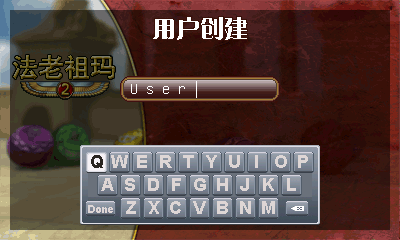
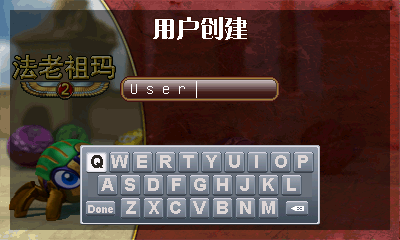
docs: record Scarab 2 playability after the screen-entry fix (#185)

Changed region(s): [[0.0, 0.5833, 0.24, 0.9333]]

diff --git a/docs/Game-Compatibility.md b/docs/Game-Compatibility.md
@@ -57,6 +57,13 @@ because `get_tick` advanced the guest clock faster than the 100 ms frame, which
 corrupted the countdown shared by the AI ready timers; the clock now stays
 inside each frame's tick window, and the resumed deal, settlement prompt and
 exit/re-entry menu render with every glyph (issues #137, #138).
+Scarab 2 (B group, row 45) drew its 1-1 bead chain uniformly dark grey and
+opened the pause menu as an empty red-brown frame. The screen lifecycle
+replayed a screen's load callback after initialization, and that replay reset
+setup the initializer had just positioned; entry now runs the initializer and
+uses the load callback only for screens without one (67bbb6f). The verified
+620-frame replay renders the coloured chain and all three pause actions, and
+exit plus the continue-progress restart return to a playable level (issue #185).
 
 ## Summary
 
@@ -280,7 +287,7 @@ not provide the original server's content or a real carrier payment service.
 | 42 | `B/歪歪猫发条城历险记V100.CBE` | 176×220 | <img src="images/B/歪歪猫发条城历险记V100.png" width="120" alt="歪歪猫发条城历险记V100 idle frame"> | Required | Ready | Scalar rectangle outlines fix vertical streaks in the inventory; platform movement/scrolling, weapon firing (ammo 10→9), inventory selection and return to the stage checked. Full playthrough and audio unverified |
 | 43 | `B/水果达人.CBE` | 400×240 | <img src="images/B/水果达人.png" width="120" alt="水果达人 idle frame"> | No known requirement | Ready | The arithmetic loop faults: a 110-frame replay exceeds the 20M instruction budget at 0x0101BB1C, so the classic mode and the later scene switch cannot be reached (issue #183). Needs a held drag, not repeated taps |
 | 44 | `B/江湖Online.CBE` | 240×400 | <img src="images/B/江湖Online.png" width="120" alt="江湖Online idle frame"> | Required | Ready | After installation the right soft key enters 获取版本信息 / 正在和服务器通讯请稍候 and it is still there at 2,701 frames; cancelling leaves only a green background (issue #184) |
-| 45 | `B/法老祖玛2.CBE` | 400×240 | <img src="images/B/法老祖玛2.png" width="120" alt="法老祖玛2 idle frame"> | No known requirement | Ready | Menus reach 1-1 and a held drag moves the tray from x80 to x300 with 5 switching the shot colour, but the bead chain is uniformly dark grey and the pause menu is an empty red-brown frame (issue #185) |
+| 45 | `B/法老祖玛2.CBE` | 400×240 | <img src="images/B/法老祖玛2.png" width="120" alt="法老祖玛2 idle frame"> | No known requirement | Ready | Playable: level 1-1 renders the bead chain in colour, a held drag moves the tray while 5 switches the shot colour, and a held press fires a projectile that flies and collides with the chain. The pause menu's 帮助/主菜单/继续 actions, the exit dialog and the continue-progress restart all respond; the 620-frame replay ends `Ready` at exit 0 with no heap-exhaustion warnings. Matching/popping, scoring and later chapters remain unverified (issue #185) |
 | 46 | `B/涂鸦跳跃.CBE` | 240×352 | <img src="images/B/涂鸦跳跃.png" width="120" alt="涂鸦跳跃 idle frame"> | No known requirement | Ready | Idle frame captured; interaction/gameplay unverified |
 | 47 | `B/消息盒子.CBE` | 240×400 | <img src="images/B/消息盒子.png" width="120" alt="消息盒子 idle frame"> | No known requirement | Ready | Idle frame captured; interaction/gameplay unverified |
 | 48 | `B/激情砖块.CBE` | 240×400 | <img src="images/B/激情砖块.png" width="120" alt="激情砖块 idle frame"> | No known requirement | Ready | Touch Game → map → level 1 and dismiss the loading/story prompts; drag the paddle left/right. Ball motion, pause/continue, retry and return to map verified. Full levels, boss, shop and audio unverified |
